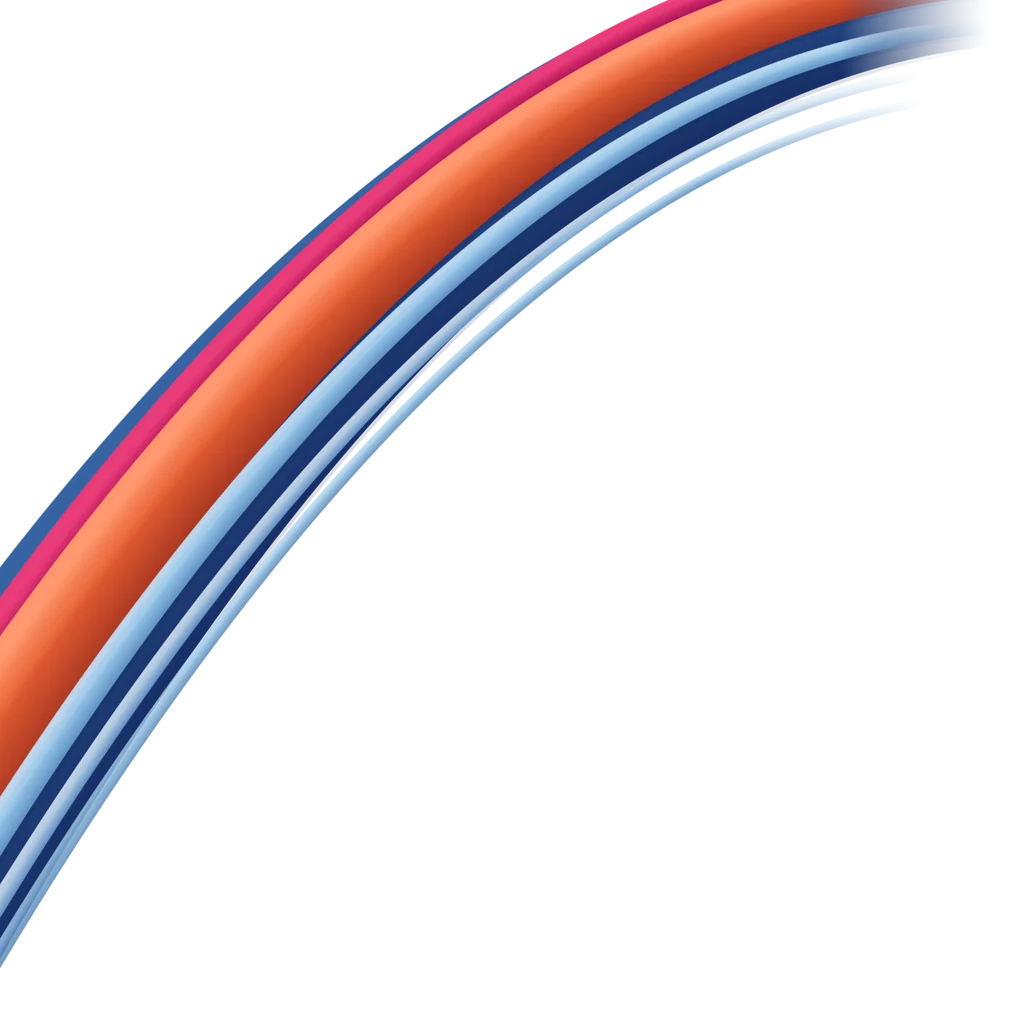
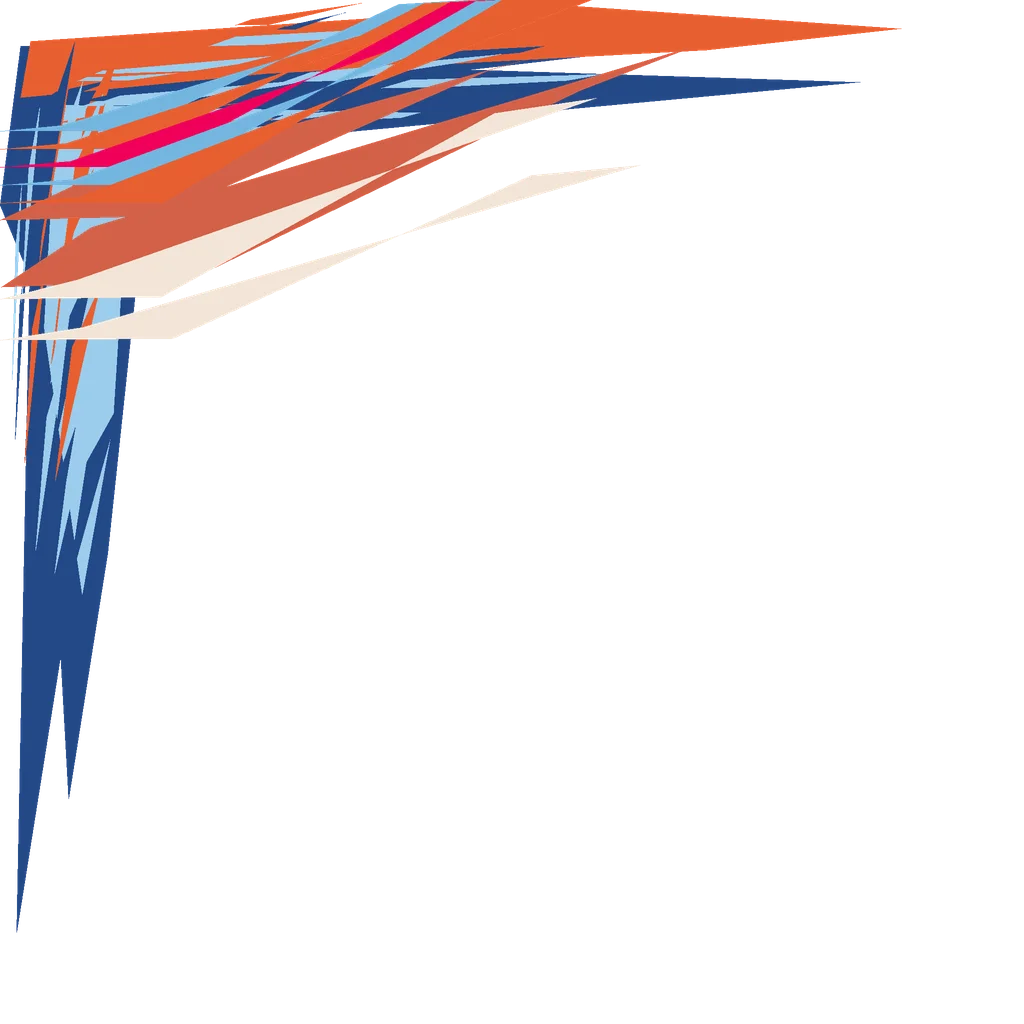
desain(G10-06): Latar videotron, podium, medali, dan piala

diff --git a/desain/catatan/G10-06.md b/desain/catatan/G10-06.md
@@ -1,0 +1,31 @@
+# G10-06 Videotron dan podium
+
+| Berkas | Ukuran | Format | KB |
+|---|---|---|---:|
+| `latar-dasar.webp` | 2560 × 2560 | WebP | 32,03 |
+| `pita-tepi.webp` | 2048 × 160 | WebP alfa | 27,21 |
+| `hiasan-kiri-atas.webp` | 1024 × 1024 | WebP alfa | 54,26 |
+| `hiasan-kanan-bawah.webp` | 1024 × 1024 | WebP alfa | 52,22 |
+| `podium.webp` | 1600 × 900 | WebP alfa | 35,85 |
+| `medali-emas.webp` | 512 × 512 | WebP alfa | 23,32 |
+| `medali-perak.webp` | 512 × 512 | WebP alfa | 20,38 |
+| `medali-perunggu.webp` | 512 × 512 | WebP alfa | 22,29 |
+| `piala.webp` | 512 × 512 | WebP alfa | 32,12 |
+
+Prompt dasar dan tambahan tetap berikut dipakai bersama adegan di tabel. Garis tinta, bayangan keras, dan palet mengacu pada rujukan lintasan.
+
+> 2D cel-shaded sports anime illustration, school-age track athletes, dynamic sprint poses, bold linework, crisp shadow shapes, low-angle track composition, brand-colored jerseys. Clean background, no text, no letters, no numbers, no logos, no watermark, modest sportswear, Indonesian school kids, original characters.
+
+| Berkas | Ringkasan arahan gambar |
+|---|---|
+| `latar-dasar.webp` | Bidang biru tua hingga biru biasa dengan perubahan bidang diagonal dan garis sangat samar, tanpa benda. |
+| `pita-tepi.webp` | Sapuan mendatar oranye, magenta dan biru muda dengan profil berulang di kedua tepi. |
+| `hiasan-kiri-atas.webp` | Goresan kuas dan jalur putih merah bata bertumpuk di pojok kiri atas. |
+| `hiasan-kanan-bawah.webp` | Pasangan sapuan kuas dan garis lintasan dari pojok kanan bawah. |
+| `podium.webp` | Podium tiga tingkat warna krem dengan tepi biru dan bidang atas oranye, polos. |
+| `medali-emas.webp` | Medali emas berpermukaan polos dengan sorotan tajam dan pita biru. |
+| `medali-perak.webp` | Medali perak berpermukaan polos dengan pita biru. |
+| `medali-perunggu.webp` | Medali perunggu berpermukaan polos dengan pita biru. |
+| `piala.webp` | Piala emas bergagang dengan alas biru tanpa tulisan dan kilau runcing. |
+
+Pita diuji dengan dua salinan berdampingan pada 4096 × 160 piksel. Tepi kiri dan kanan punya profil yang sama. Komposisi pratinjau diperiksa pada 16:9, 4:1 dan 9:16, dengan hiasan sudut berukuran 15% dari sisi terpendek.
